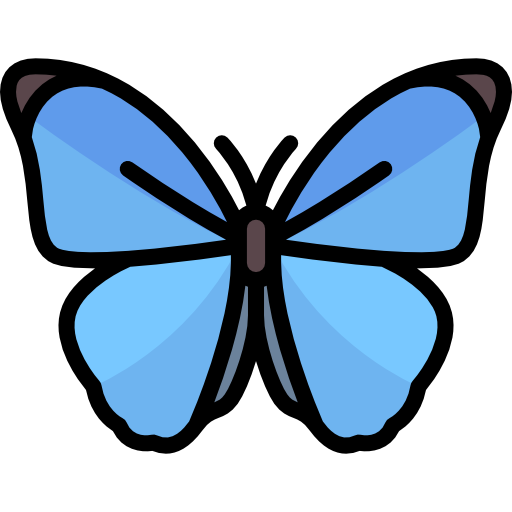
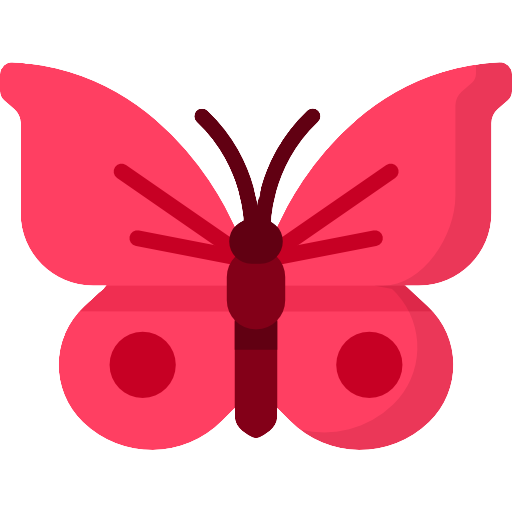
Added visual enhacements

diff --git a/game_solution.py b/game_solution.py
@@ -60,8 +60,8 @@ def start_game():
     global bat_spawned, active_timers, more_speed
 
     # Remove the previous enemies
-    for enemy_label, _ in enemies:
-        enemy_label.destroy()
+    for enemy in enemies:
+        enemy.destroy()
     enemies = []
 
     # Remove the previous spawning schedules
@@ -91,7 +91,7 @@ def start_game():
         widget.destroy()
 
     # Background setup
-    bg_image = Image.open("background.jpg")
+    bg_image = Image.open("background.png")
     bg_img = ImageTk.PhotoImage(bg_image)
     bg_label = Label(window, image=bg_img)
     bg_label.image = bg_img
@@ -110,7 +110,7 @@ def start_game():
     # Frog character setup
     frog_img = Image.open("frog.png")
     frog = ImageTk.PhotoImage(frog_img)
-    frog_label = Label(window, image=frog, background="#ffde59")
+    frog_label = Label(window, image=frog, background="#d4fdc2")
     frog_label.image = frog
     frog_label.place(relx=0.5, rely=0.5, anchor="center")
 
@@ -175,14 +175,37 @@ def start_game():
                 tongue_label.place(x=new_x, y=new_y)
 
                 # Check for collisions with enemies.
-                for enemy_label, enemy_type in enemies:
+                for enemy_data in enemies:
+                    enemy_label, enemy_type, hit_count, img_index = enemy_data
                     ex, ey = enemy_label.winfo_x(), enemy_label.winfo_y()
                     if abs(new_x - ex) < 25 and abs(new_y - ey) < 25:
-                        enemy_label.destroy()  # Remove enemy
-                        tongue_label.destroy()  # Remove tongue
-                        enemies.remove((enemy_label, enemy_type))
-                        enemy_death(enemy_type)  # Update score
-                        return  # Stop tongue movement
+                        if enemy_type == 'butterfly':
+                            hit_count += 1
+                            if hit_count >= 3:
+                                enemy_label.destroy()  # Remove enemy
+                                tongue_label.destroy()  # Remove tongue
+                                enemies.remove((enemy_data))
+                                enemy_death(enemy_type)  # Update score
+                                return  # Stop tongue movement
+                            else:
+                                img_index = min(hit_count,
+                                                len(butterfly_imgs) - 1)
+                                new_image = butterfly_imgs[img_index]
+                                i = new_image.rotate(rotation_angle - 180,
+                                                     expand=True)
+                                new_img = ImageTk.PhotoImage(i)
+                                enemy_label.config(image=new_img)
+                                enemy_label.image = new_img
+                                enemy_data[2] = hit_count
+                                enemy_data[3] = img_index
+                                tongue_label.destroy()
+                                return
+                        else:
+                            enemy_label.destroy()  # Remove enemy
+                            tongue_label.destroy()  # Remove tongue
+                            enemies.remove((enemy_data))
+                            enemy_death(enemy_type)  # Update score
+                            return  # Stop tongue movement
 
                 # Destroy the tongue if it moves out of window
                 if not (0 <= new_x <= 800 and 0 <= new_y <= 800):
@@ -262,7 +285,7 @@ def start_game():
 
         if cheat_code == "vanish":
             # Remove all enemy labels and clear the enemies list
-            for enemy_label, _ in enemies:
+            for enemy_label, _, __, ___ in enemies:
                 if enemy_label.winfo_exists():
                     enemy_label.destroy()
             enemies.clear()
@@ -280,7 +303,7 @@ def start_game():
                 enemy_speed = original_speed
                 speeds['bug'] = enemy_speed + more_speed
                 speeds['butterfly'] = enemy_speed + more_speed
-                speeds['bat'] = enemy_speed + 3 + more_speed
+                speeds['bat'] = enemy_speed + 4 + more_speed
 
             window.after(10000, reset_speed)
         elif cheat_code == "oman":
@@ -316,15 +339,19 @@ def start_game():
 
     # Load and resize images for different enemy types
     bug_img = Image.open("fly.png").resize((20, 20))
-    butterfly_img = Image.open("butterfly.png").resize((30, 30))
     bat_img = Image.open("bat.png").resize((30, 30))
+    butterfly_imgs = [
+        Image.open("butterfly.png").resize((30, 30)),
+        Image.open("butterfly2.png").resize((30, 30)),
+        Image.open("butterfly3.png").resize((30, 30)),
+    ]
 
     # Adjust enemy speeds dynamically based on the score
     more_speed = float(score.get()) // 300
     speeds = {
         'bug': enemy_speed + more_speed,
         'butterfly': enemy_speed + more_speed,
-        'bat': enemy_speed + 3 + more_speed
+        'bat': enemy_speed + 4 + more_speed
     }
 
     def spawn_enemy(enemy_type):
@@ -340,7 +367,7 @@ def start_game():
             # Select the appropriate image for the enemy
             enemy_imgs = {
                 'bug': bug_img,
-                'butterfly': butterfly_img,
+                'butterfly': butterfly_imgs[0],
                 'bat': bat_img
             }
 
@@ -367,8 +394,8 @@ def start_game():
             rotated_img = original_img.rotate(angle, expand=True)
             enemy_img = ImageTk.PhotoImage(rotated_img)
 
-            enemy_label = Label(window, image=enemy_img, background="#7ed957")
-            enemies.append((enemy_label, enemy_type))
+            enemy_label = Label(window, image=enemy_img, background="#1787c8")
+            enemies.append([enemy_label, enemy_type, 0, 0])
             enemy_label.image = enemy_img
 
             enemy_label.place(x=x_pos, y=y_pos)
@@ -376,7 +403,7 @@ def start_game():
 
             # Move the enemy and schedule future spawns
             move_enemy(enemy_label, enemy_type)
-            spawn_delays = {'bug': 3000, 'butterfly': 4000, 'bat': 8000}
+            spawn_delays = {'bug': 3000, 'butterfly': 6000, 'bat': 8000}
             timer_id = window.after(spawn_delays[enemy_type],
                                     lambda: spawn_enemy(enemy_type))
             active_timers.append(timer_id)
@@ -452,7 +479,7 @@ def game_over():
     delete_saved_game()
 
     # Remove the previous enemies
-    for enemy_label, _ in enemies:
+    for enemy_label, _, __, i in enemies:
         enemy_label.destroy()
     enemies = []
 
@@ -712,6 +739,7 @@ def load_game_settings():
         enemy_speed = settings["enemy_speed"]
 
         is_loaded.set(True)
+
         # Start the game with the loaded settings.
         start_game()
 

diff --git a/README.md b/README.md
@@ -42,6 +42,9 @@ Save/load functionality for resuming gameplay.
 
 ## References
 
-1. [Butterfly Image](https://www.flaticon.com/free-icon/butterfly_338286?term=butterfly&page=1&position=5&origin=search&related_id=338286)  
+1. [Butterfly Image](https://www.flaticon.com/free-icon/butterfly_408057?term=butterfly&page=2&position=9&origin=search&related_id=408057)
 2. [Fly Image](https://www.flaticon.com/free-icon/fly_9421093?term=fly&page=1&position=27&origin=search&related_id=9421093)
 3. [Bat Image](https://www.flaticon.com/free-icon/bat_8625588?term=bat&page=1&position=76&origin=search&related_id=8625588)
+4. [Frog Image](https://pixel-prismor.itch.io/colorful-frogs)
+5. [Butterfly2 Image](https://www.flaticon.com/free-icon/butterfly_628300?term=butterfly&page=1&position=12&origin=search&related_id=628300)
+6. [Butterfly3 Image](https://www.flaticon.com/free-icon/butterfly_2281191?term=butterfly&page=1&position=60&origin=search&related_id=2281191)
